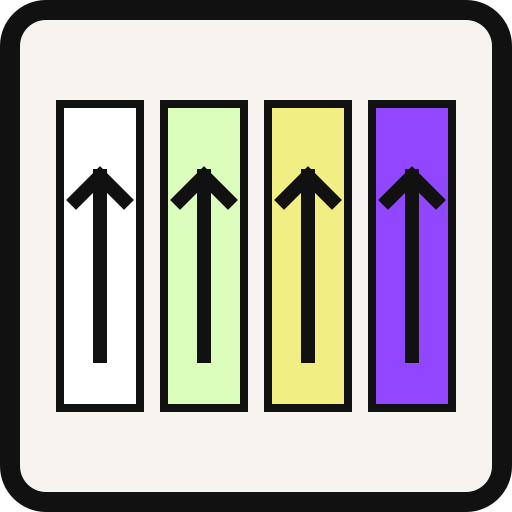
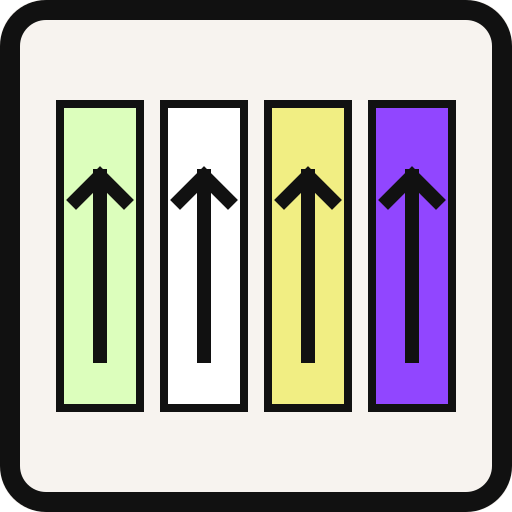
Update organization profile to canonical arrows

Changed region(s): [[0.3125, 0.1875, 0.4688, 0.8125], [0.125, 0.1875, 0.2812, 0.8125]]

diff --git a/profile/README.md b/profile/README.md
@@ -3,7 +3,7 @@
 </p>
 
 <p align="center">
-  <strong>Measurable men's health across Brain, Body, Sleep, and Drive.</strong>
+  <strong>Measurable men's health across Body, Mind, Recovery, and Vitality.</strong>
 </p>
 
 <p align="center">
@@ -16,9 +16,9 @@ Four Arrows is building a clearer way to connect how men feel with what their
 bodies are doing. The operating loop is simple: define the goal, track the
 signal, adjust the plan, and measure again.
 
-| Brain | Body | Sleep | Drive |
+| Body | Mind | Recovery | Vitality |
 |---|---|---|---|
-| Cognition, mood, and stress | Strength, composition, and cardio-metabolic markers | Recovery and sleep signals | Hormones and sexual health |
+| Strength, movement, composition, cardiovascular, metabolic, and lipid measures | Cognition, mood, stress, and behavior | Sleep quantity, quality, readiness, breathing, and circadian health | Hormones, sexual function, urologic health, fertility, and hormone-linked symptoms |
 
 ## Current Stage
 
